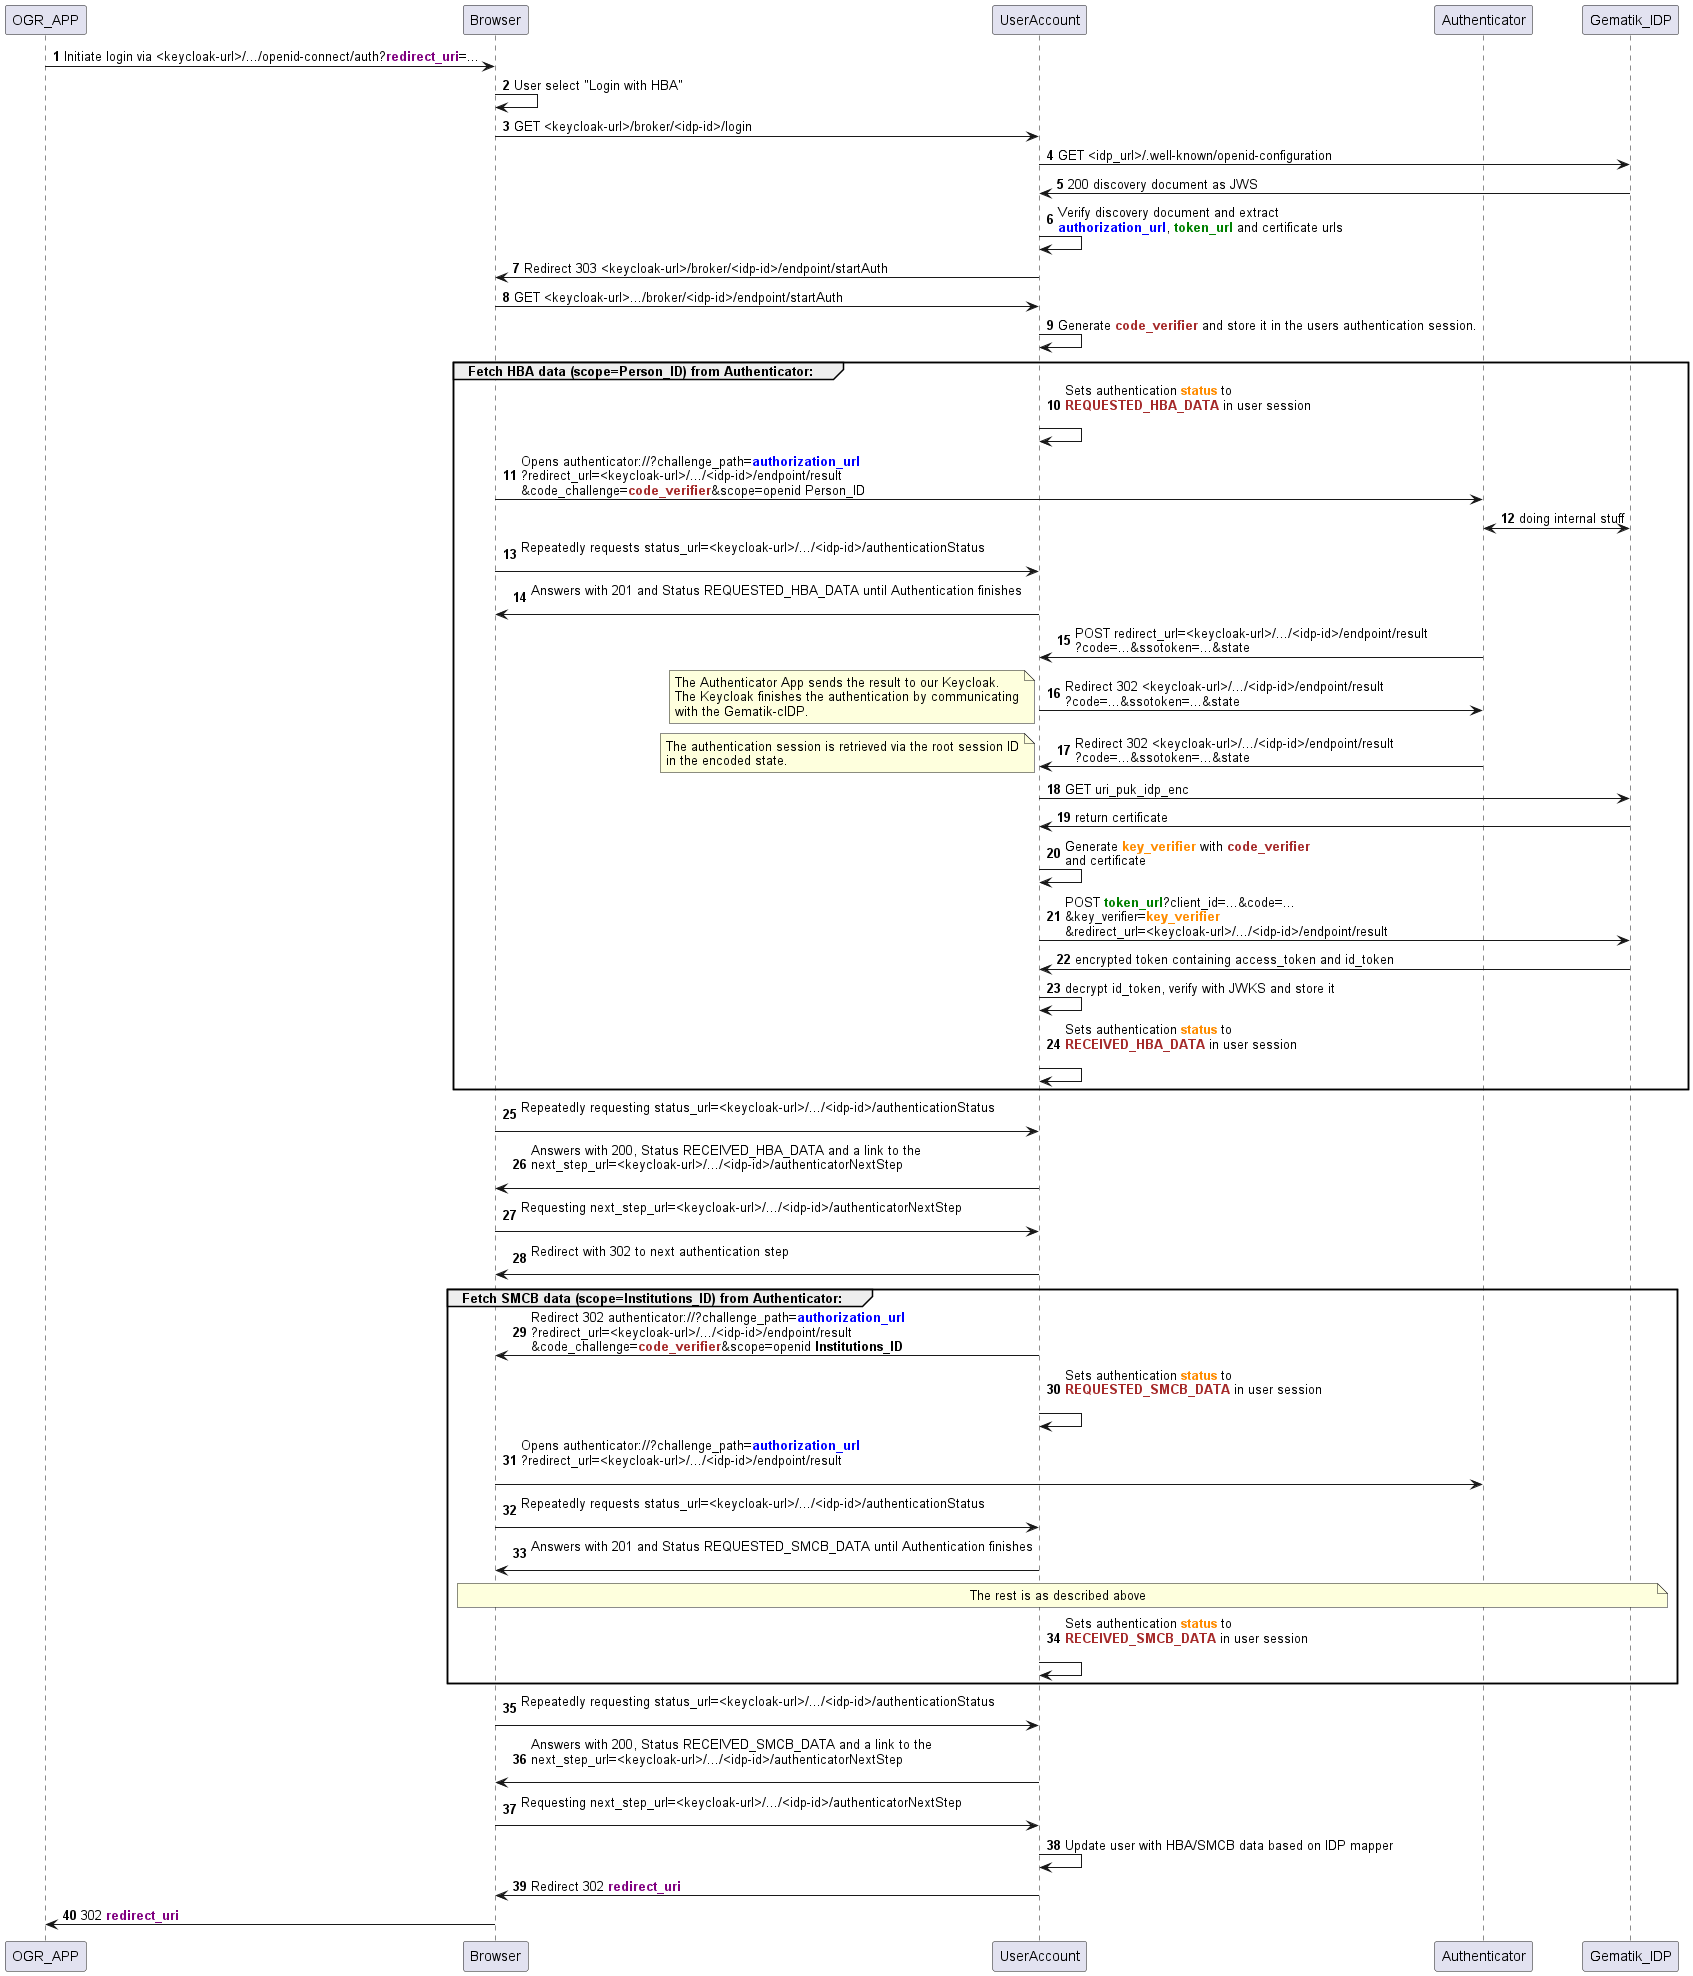
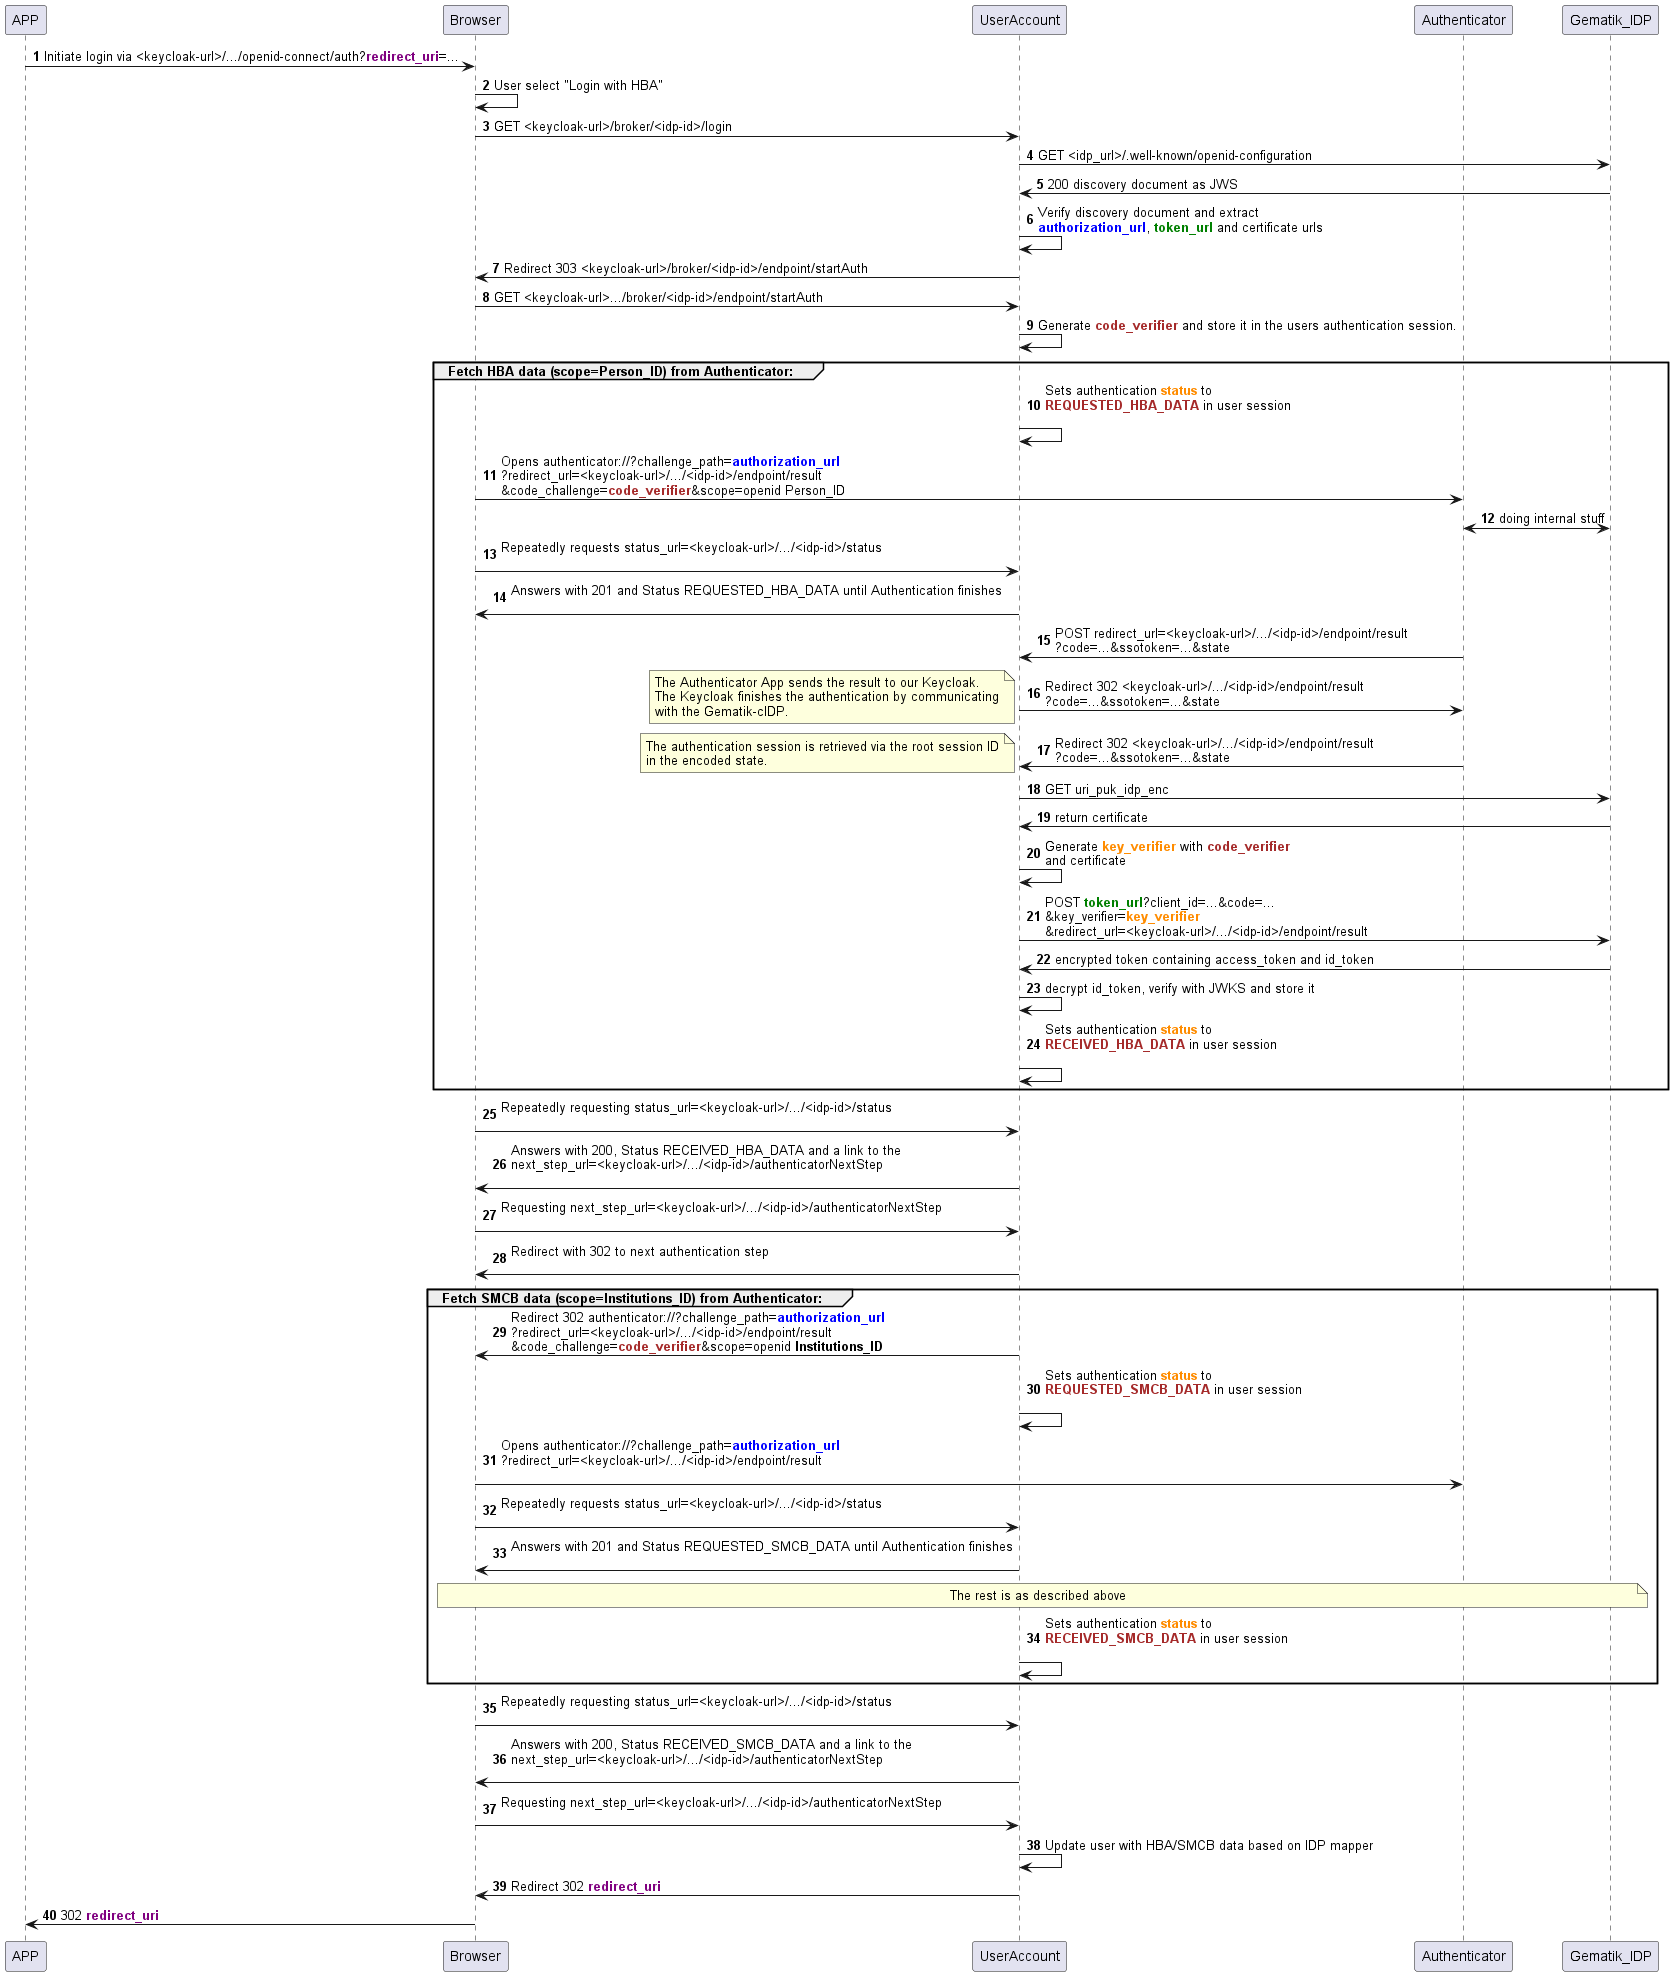
## Release 1.7.0
* Integration of version Gematik Authenticator version 4.6.0
* Finalization of the new single HBA and SMC-B authentication flows
* Finalization of the new multi authentication flows

## Release 1.6.0

* Dependency updates

## Release 1.5.0

* Introduced new single HBA and SMC-B authentication flows
* Added new HBA and SMC-B identity providers to the sample realm
* Status endpoint renamed (from `authenticationStatus` to `status`)
* Next-Step endpoint renamed (from `authenticatorNextStep` to `nextStep`)

## Release 1.4.0

* Support for the new multi authentication flow added

## Release 1.3.0

* The Authenticator version is now appended to the MDC and the auth session notes
* Update to Keycloak 21.1.2

diff --git a/Readme.md b/Readme.md
@@ -49,7 +49,7 @@ support the new theme with this plugin.
 |--------------------------------------|-----------------------------------------------------------------------------------------------------------------------------------------------------|--------------------------------------------------------------------------------------------------------------------------------------------------------------------------------------------------------------------------------------------------------------------------------------------------------|
 | Multiple Identity Mode               | ON or OFF                                                                                                                                           | If this option is switched on, the current timestamp is appended to the Gematik-IDP-ID, which means that an eHBA can be linked to several users at the same time. You will not be able to login with your registered IDP credentials in this case.                                                     |
 | Authenticator Url                    | http://localhost:8000 <br/> http://localhost:39000 <br/> authenticator://                                                                           | Url to open the Authenticator app <br/> if `authenticator://`, Authenticator app is started, if it has not already been started and response is opened in a new tab <br/> if `http://localhost:8000` or `http://localhost:39000` Authenticator app needs to be running, response is opened in same tab |
-| Authentication Flow                  | Either single, HBA, SMCB or multiple request                                                                                                        | Choose your preferred authentication flow. When single, HBA or SMCB is selected, only a single request is made to the Gematik-Authenticator, but this flow requires at least Authenticator version 4.6.0. Otherwise, multiple requests are made to the Gematik-Authenticator.                             |
+| Authentication Flow                  | Either single, HBA, SMCB or multiple request                                                                                                        | Choose your preferred authentication flow. When single, HBA or SMCB is selected, only a single request is made to the Gematik-Authenticator, but this flow requires at least an Authenticator in version 4.6.0. Otherwise, multiple requests are made to the Gematik-Authenticator.                    |
 | Use new Authentication Flow          | ON or OFF                                                                                                                                           | If this option is switched on, the new Authentication Flow of the Gematik-Authenticator introduced in version 4.0 will be used.                                                                                                                                                                        |
 | Authenticator IDP Authorization Url  |                                                                                                                                                     | Authorization endpoint of the central IDP, used in the Authenticator.<br/>Should be extracted from the openid-configuration.                                                                                                                                                                           |
 | Authenticator Timeout (ms)           | default: 20000                                                                                                                                      | Timeout in milliseconds until the process of establishing a connection to the Authenticator is aborted                                                                                                                                                                                                 |
